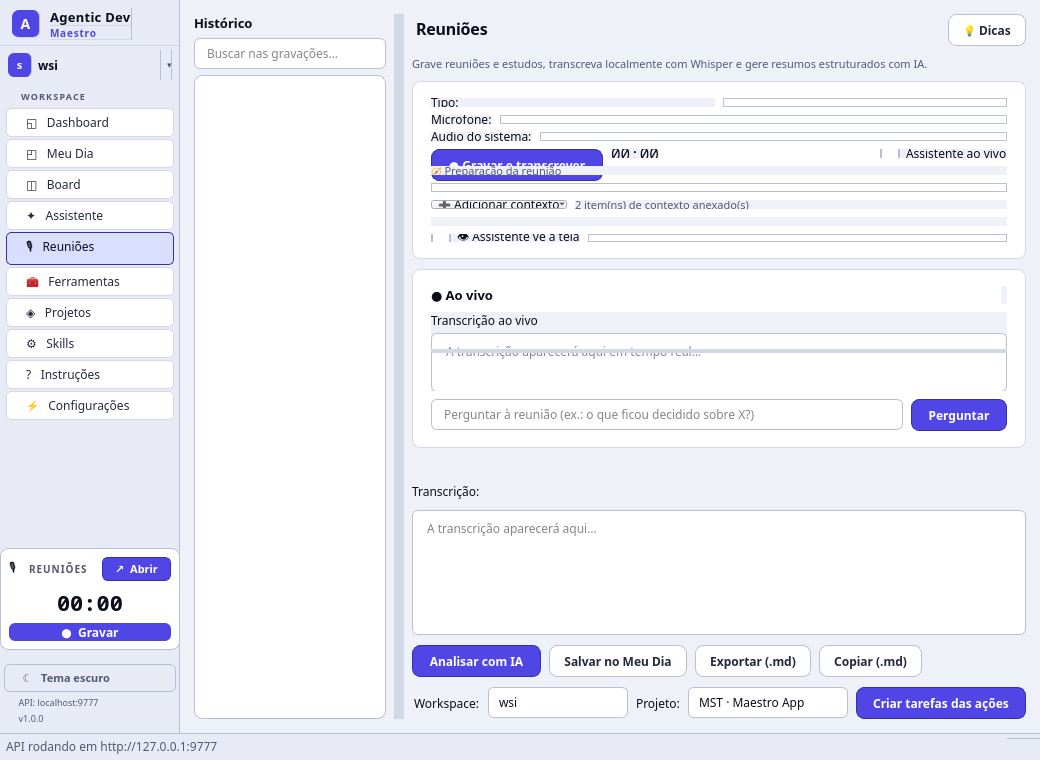
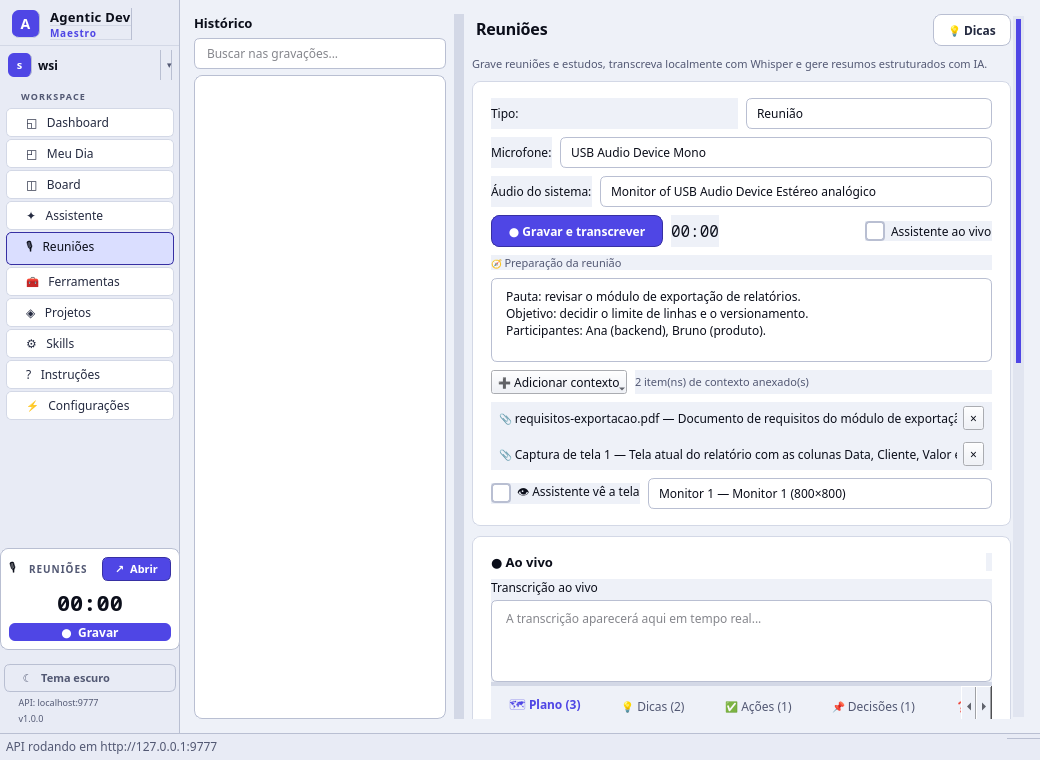
fix(reuniões): coluna direita rolável + altura mínima do painel ao vivo
- Envolve a coluna direita (controles + painel ao vivo) num QScrollArea:
  quando o conteúdo não cabe na altura da janela, rola em vez de sobrepor
  os widgets (transcrição/abas deixavam de encavalar).
- Define altura mínima do live_box (460px) para o splitter interno
  (transcrição + abas) sempre ter espaço, mantendo responsividade.
- Print de Reuniões atualizado.

Changed region(s): [[0.3692, 0.0, 1.0, 0.9684]]

diff --git a/local-client/maestro_local/gui/views/transcricoes_view.py b/local-client/maestro_local/gui/views/transcricoes_view.py
@@ -383,6 +383,7 @@ class TranscricoesView(QWidget):
         # ---- Painel do assistente ao vivo (visível só durante gravação ao vivo) ----
         self.live_box = self._build_live_box()
         self.live_box.setVisible(False)
+        self.live_box.setMinimumHeight(460)
         right.addWidget(self.live_box, 6)
 
         # Progresso de transcrição
@@ -462,7 +463,16 @@ class TranscricoesView(QWidget):
         self.result_edit.setVisible(False)
         right.addWidget(self.result_edit, 1)
 
-        self._main_split.addWidget(right_widget)
+        # A coluna direita rola quando o conteúdo (controles + painel ao vivo)
+        # não cabe na altura da janela — evita widgets sobrepostos.
+        right_scroll = QScrollArea()
+        right_scroll.setWidgetResizable(True)
+        right_scroll.setFrameShape(QFrame.NoFrame)
+        right_scroll.setHorizontalScrollBarPolicy(Qt.ScrollBarAlwaysOff)
+        right_scroll.setWidget(right_widget)
+        right_widget.setMinimumWidth(420)
+
+        self._main_split.addWidget(right_scroll)
         self._main_split.setStretchFactor(0, 0)
         self._main_split.setStretchFactor(1, 1)
         self._main_split.setSizes([260, 900])
